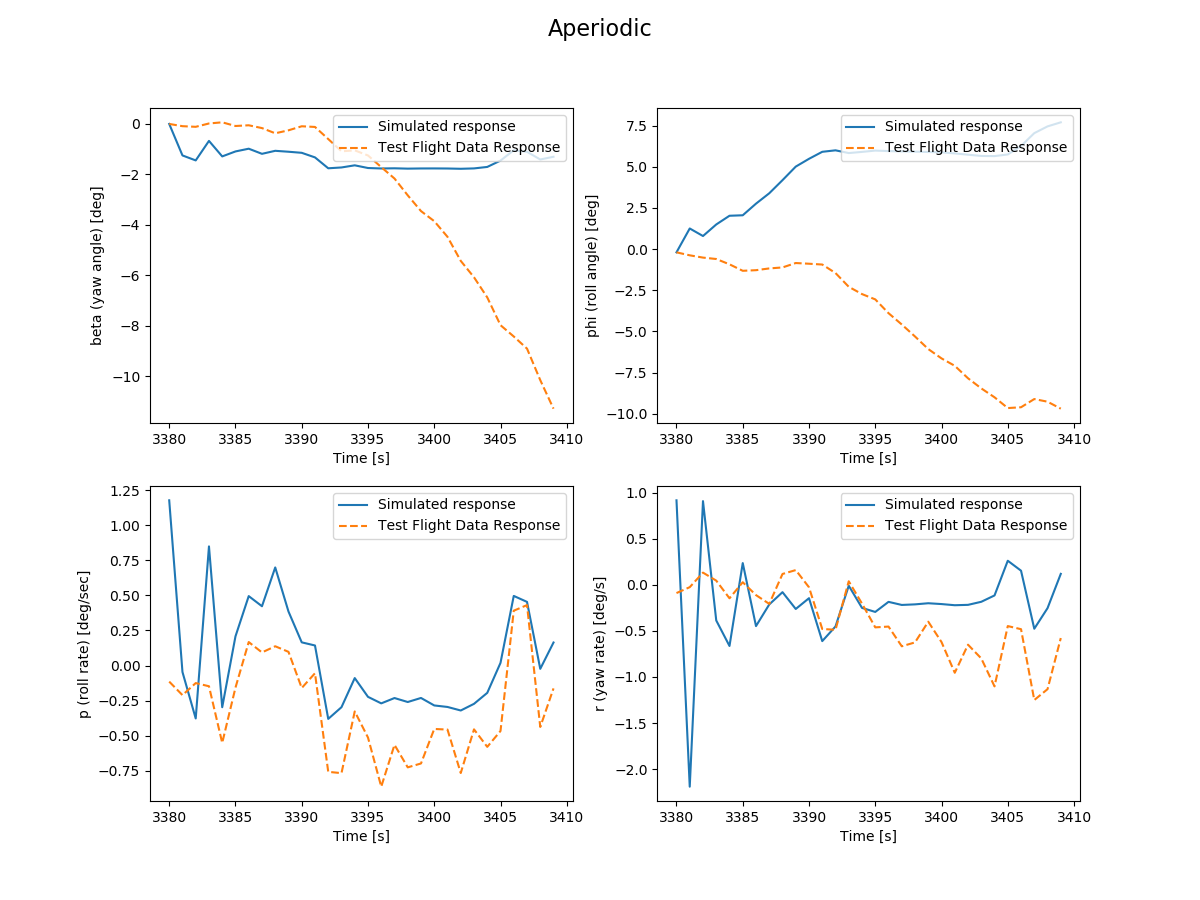
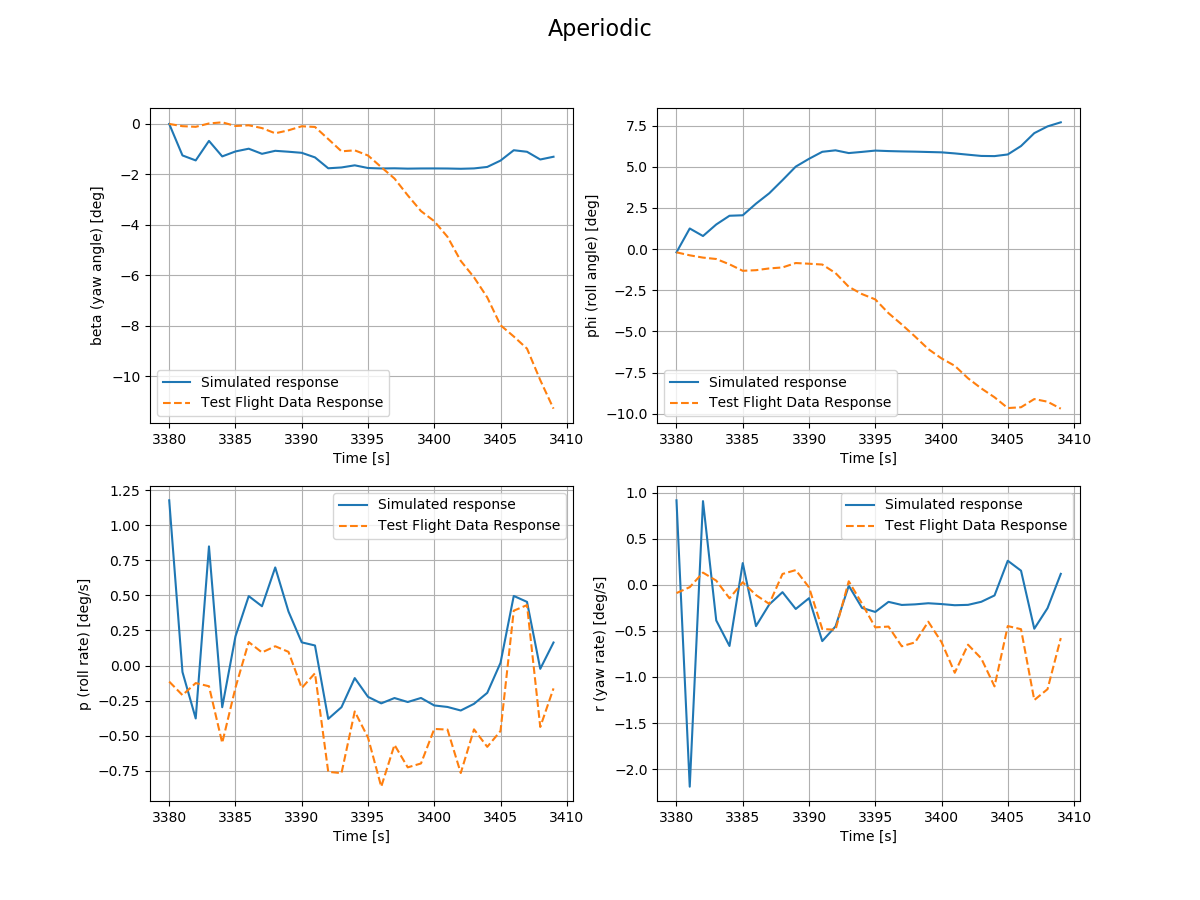
Graphs

diff --git a/src/data_processing/statespace/statespaceAsymmetrical.py b/src/data_processing/statespace/statespaceAsymmetrical.py
@@ -75,17 +75,19 @@ def maneuver_vals(time_start, length,name):
     ax1 = charPlot.add_subplot(211)
     ax1.plot(t, da, label='aileron deflection')
     ax1.plot(t, dr, label = 'rudder deflection', color='tab:orange',linestyle='--')
-    ax1.legend(loc='upper right',fontsize=14)
+    ax1.legend(fontsize=14)
     ax1.set_ylabel("da, dr [deg]", fontsize=20)
+    ax1.grid()
 
     ax2 = charPlot.add_subplot(212)
     ax2.plot(t, beta, label='beta')
     ax2.plot(t, phi, label='phi', color='tab:orange',linestyle='--')
     ax2.plot(t, p, label='p', color='tab:red',linestyle=':')
     ax2.plot(t, r, label='r', color='tab:green',linestyle='-.')
-    ax2.legend(loc='upper right',fontsize=14)
+    ax2.legend(fontsize=14)
     ax2.set_xlabel("Time [s]", fontsize=20)
     ax2.set_ylabel("beta, phi [deg], p, r [deg/s]", fontsize=20)
+    ax2.grid()
 
     charPlot.savefig('CharacterPlot_'+name)
 
@@ -208,9 +210,10 @@ fig.suptitle('Dutch Roll',fontsize=16)
 ax1 = fig.add_subplot(221)
 ax1.plot(t, y[0, :], label='Simulated response')
 ax1.plot(t, dutch[8], label='Test Flight Data Response', color='tab:orange',linestyle='--')
-ax1.legend(loc='upper right')
+ax1.legend()
 ax1.set_xlabel("Time [s]")
 ax1.set_ylabel("beta (yaw angle) [deg]")
+ax1.grid()
 print("Dutch Roll Error in Beta:")
 dutch_error_beta = L2error(dutch[8], y[0, :])
 print(dutch_error_beta)
@@ -218,9 +221,10 @@ print(dutch_error_beta)
 ax2 = fig.add_subplot(222)
 ax2.plot(t, y[1, :], label='Simulated response')
 ax2.plot(t, dutch[1], label='Test Flight Data Response', color='tab:orange',linestyle='--')
-ax2.legend(loc='upper right')
+ax2.legend()
 ax2.set_xlabel("Time [s]")
 ax2.set_ylabel("phi (roll angle) [deg]")
+ax2.grid()
 print("Dutch Roll Error in Phi:")
 dutch_error_phi = L2error(dutch[1], y[1, :])
 print(dutch_error_phi)
@@ -228,9 +232,10 @@ print(dutch_error_phi)
 ax3 = fig.add_subplot(223)
 ax3.plot(t, y[2, :], label='Simulated response')
 ax3.plot(t, dutch[2], label='Test Flight Data Response', color='tab:orange',linestyle='--')
-ax3.legend(loc='upper right')
+ax3.legend()
 ax3.set_xlabel("Time [s]")
-ax3.set_ylabel("p (roll rate) [deg/sec]")
+ax3.set_ylabel("p (roll rate) [deg/s]")
+ax3.grid()
 print("Dutch Roll Error in p:")
 dutch_error_p = L2error(dutch[2], y[2, :])
 print(dutch_error_p)
@@ -238,9 +243,10 @@ print(dutch_error_p)
 ax4 = fig.add_subplot(224)
 ax4.plot(t, y[3, :], label='Simulated response')
 ax4.plot(t, dutch[3], label='Test Flight Data Response', color='tab:orange',linestyle='--')
-ax4.legend(loc='upper right')
+ax4.legend()
 ax4.set_xlabel("Time [s]")
 ax4.set_ylabel("r (yaw rate) [deg/s]")
+ax4.grid()
 print("Dutch Roll Error in r:")
 dutch_error_r = L2error(dutch[3], y[3, :])
 print(dutch_error_r)
@@ -326,9 +332,10 @@ fig2.suptitle('Spiral',fontsize=16)
 ax1 = fig2.add_subplot(221)
 ax1.plot(t, y[0, :], label='Simulated response')
 ax1.plot(t, spiral[8], label='Test Flight Data Response', color='tab:orange',linestyle='--')
-ax1.legend(loc='upper right')
+ax1.legend()
 ax1.set_xlabel("Time [s]")
 ax1.set_ylabel("beta (yaw angle) [deg]")
+ax1.grid()
 print("Spiral Roll Error in Beta:")
 spiral_error_beta = L2error(spiral[8], y[0, :])
 print(spiral_error_beta)
@@ -336,9 +343,10 @@ print(spiral_error_beta)
 ax2 = fig2.add_subplot(222)
 ax2.plot(t, y[1, :], label='Simulated response')
 ax2.plot(t, spiral[1], label='Test Flight Data Response', color='tab:orange',linestyle='--')
-ax2.legend(loc='upper right')
+ax2.legend()
 ax2.set_xlabel("Time [s]")
 ax2.set_ylabel("phi (roll angle) [deg]")
+ax2.grid()
 print("Spiral Roll Error in Phi:")
 spiral_error_phi = L2error(spiral[1], y[1, :])
 print(spiral_error_phi)
@@ -346,9 +354,10 @@ print(spiral_error_phi)
 ax3 = fig2.add_subplot(223)
 ax3.plot(t, y[2, :], label='Simulated response')
 ax3.plot(t, spiral[2], label='Test Flight Data Response', color='tab:orange',linestyle='--')
-ax3.legend(loc='upper right')
+ax3.legend()
 ax3.set_xlabel("Time [s]")
-ax3.set_ylabel("p (roll rate) [deg/sec]")
+ax3.set_ylabel("p (roll rate) [deg/s]")
+ax3.grid()
 print("Spiral Roll Error in p:")
 spiral_error_p = L2error(spiral[2], y[2, :])
 print(spiral_error_p)
@@ -356,9 +365,10 @@ print(spiral_error_p)
 ax4 = fig2.add_subplot(224)
 ax4.plot(t, y[3, :], label='Simulated response')
 ax4.plot(t, spiral[3], label='Test Flight Data Response', color='tab:orange',linestyle='--')
-ax4.legend(loc='upper right')
+ax4.legend()
 ax4.set_xlabel("Time [s]")
 ax4.set_ylabel("r (yaw rate) [deg/s]")
+ax4.grid()
 print("Spiral Roll Error in r:")
 spiral_error_r = L2error(spiral[3], y[3, :])
 print(spiral_error_r)
@@ -444,9 +454,10 @@ fig3.suptitle('Aperiodic',fontsize=16)
 ax1 = fig3.add_subplot(221)
 ax1.plot(t, y[0, :], label='Simulated response')
 ax1.plot(t, aperiodic[8], label='Test Flight Data Response', color='tab:orange',linestyle='--')
-ax1.legend(loc='upper right')
+ax1.legend()
 ax1.set_xlabel("Time [s]")
 ax1.set_ylabel("beta (yaw angle) [deg]")
+ax1.grid()
 print("Aperiodic Roll Error in Beta:")
 aperiodic_error_beta = L2error(aperiodic[8], y[0, :])
 print(aperiodic_error_beta)
@@ -454,9 +465,10 @@ print(aperiodic_error_beta)
 ax2 = fig3.add_subplot(222)
 ax2.plot(t, y[1, :], label='Simulated response')
 ax2.plot(t, aperiodic[1], label='Test Flight Data Response', color='tab:orange',linestyle='--')
-ax2.legend(loc='upper right')
+ax2.legend()
 ax2.set_xlabel("Time [s]")
 ax2.set_ylabel("phi (roll angle) [deg]")
+ax2.grid()
 print("Aperiodic Roll Error in Phi:")
 aperiodic_error_phi = L2error(aperiodic[1], y[1, :])
 print(aperiodic_error_phi)
@@ -464,9 +476,10 @@ print(aperiodic_error_phi)
 ax3 = fig3.add_subplot(223)
 ax3.plot(t, y[2, :], label='Simulated response')
 ax3.plot(t, aperiodic[2], label='Test Flight Data Response', color='tab:orange',linestyle='--')
-ax3.legend(loc='upper right')
+ax3.legend()
 ax3.set_xlabel("Time [s]")
-ax3.set_ylabel("p (roll rate) [deg/sec]")
+ax3.set_ylabel("p (roll rate) [deg/s]")
+ax3.grid()
 print("Aperiodic Roll Error in p:")
 aperiodic_error_p = L2error(aperiodic[2], y[2, :])
 print(aperiodic_error_p)
@@ -474,9 +487,10 @@ print(aperiodic_error_p)
 ax4 = fig3.add_subplot(224)
 ax4.plot(t, y[3, :], label='Simulated response')
 ax4.plot(t, aperiodic[3], label='Test Flight Data Response', color='tab:orange',linestyle='--')
-ax4.legend(loc='upper right')
+ax4.legend()
 ax4.set_xlabel("Time [s]")
 ax4.set_ylabel("r (yaw rate) [deg/s]")
+ax4.grid()
 print("Aperiodic Roll Error in r:")
 aperiodic_error_r = L2error(aperiodic[3], y[3, :])
 print(aperiodic_error_r)

diff --git a/src/data_processing/statespace/statespace.py b/src/data_processing/statespace/statespace.py
@@ -77,17 +77,19 @@ def maneuver_vals(time_start, time_length, name):
 
     ax1 = charPlot.add_subplot(211)
     ax1.plot(t, de, label='elevator deflection')
-    ax1.legend(loc='upper right', fontsize=14)
+    ax1.legend(fontsize=14)
     ax1.set_ylabel("de [deg]", fontsize=20)
+    ax1.grid()
 
     ax2 = charPlot.add_subplot(212)
     ax2.plot(t, u)
     ax2.plot(t, w, label='w', color='tab:orange',linestyle='--')
     ax2.plot(t, pitch, label='pitch', color='tab:red',linestyle=':')
     ax2.plot(t, q, label='q', color='tab:green',linestyle='-.')
-    ax2.legend(loc='upper right', fontsize=14)
+    ax2.legend(fontsize=14)
     ax2.set_xlabel("Time [s]", fontsize=20)
     ax2.set_ylabel("u, w [m/s], pitch [deg], q [deg/s]", fontsize=20)
+    ax2.grid()
 
     charPlot.savefig('CharacterPlot_'+name)
 
@@ -207,7 +209,7 @@ fig.suptitle('Phugoid',fontsize=16)
 ax1 = fig.add_subplot(221)
 ax1.plot(t, y[0, :], label='Simulated Response')
 ax1.plot(t, phugoid[6], label='Test Flight Data Response', color='tab:orange',linestyle='--')
-ax1.legend(loc='upper right')
+ax1.legend()
 ax1.set_xlabel("Time [s]")
 ax1.set_ylabel("u (x-dir. disturbance in velocity) [m/s]")
 ax1.grid()
@@ -219,7 +221,7 @@ ax2 = fig.add_subplot(222)
 ax2.plot(t, y[1, :], label='Simulated Response')
 #alpha
 ax2.plot(t, phugoid[8], label='Test Flight Data Response', color='tab:orange',linestyle='--')
-ax2.legend(loc='upper right')
+ax2.legend()
 ax2.set_xlabel("Time [s]")
 ax2.set_ylabel("w (z-dir. disturbance in velocity) [m/s]")
 ax2.grid()
@@ -231,7 +233,7 @@ ax3 = fig.add_subplot(223)
 ax3.plot(t, y[2, :], label='Simulated Response')
 #theta
 ax3.plot(t, phugoid[3], label='Test Flight Data Response', color='tab:orange',linestyle='--')
-ax3.legend(loc='upper right')
+ax3.legend()
 ax3.set_xlabel("Time [s]")
 ax3.set_ylabel("Theta (Pitch Angle) [deg]")
 ax3.grid()
@@ -243,7 +245,7 @@ ax4 = fig.add_subplot(224)
 ax4.plot(t, y[3, :], label='Simulated Response')
 #q
 ax4.plot(t, phugoid[4], label='Test Flight Data Response', color='tab:orange',linestyle='--')
-ax4.legend(loc='upper right')
+ax4.legend()
 ax4.set_xlabel("Time [s]")
 ax4.set_ylabel("q (Pitch Rate) [deg/s]")
 ax4.grid()
@@ -317,7 +319,7 @@ fig2.suptitle('Short Period',fontsize=16)
 ax1 = fig2.add_subplot(221)
 ax1.plot(t, y[0, :], label='Simulated Response')
 ax1.plot(t, short[6], label='Test Flight Data Response', color='tab:orange',linestyle='--')
-ax1.legend(loc='upper right')
+ax1.legend()
 ax1.set_xlabel("Time [s]")
 ax1.set_ylabel("u (x-dir. disturbance in velocity) [m/s]")
 ax1.grid()
@@ -329,7 +331,7 @@ ax2 = fig2.add_subplot(222)
 ax2.plot(t, y[1, :], label='Simulated Response')
 #alpha
 ax2.plot(t, short[8], label='Test Flight Data Response', color='tab:orange',linestyle='--')
-ax2.legend(loc='upper right')
+ax2.legend()
 ax2.set_xlabel("Time [s]")
 ax2.set_ylabel("w (z-dir. disturbance in velocity) [m/s]")
 ax2.grid()
@@ -341,7 +343,7 @@ ax3 = fig2.add_subplot(223)
 ax3.plot(t, y[2, :], label='Simulated Response')
 #theta
 ax3.plot(t, short[3], label='Test Flight Data Response', color='tab:orange',linestyle='--')
-ax3.legend(loc='upper right')
+ax3.legend()
 ax3.set_xlabel("Time [s]")
 ax3.set_ylabel("Theta (Pitch Angle) [deg]")
 ax3.grid()
@@ -353,7 +355,7 @@ ax4 = fig2.add_subplot(224)
 ax4.plot(t, y[3, :], label='Simulated Response')
 #q
 ax4.plot(t, short[4], label='Test Flight Data Response', color='tab:orange',linestyle='--')
-ax4.legend(loc='upper right')
+ax4.legend()
 ax4.set_xlabel("Time [s]")
 ax4.set_ylabel("q (Pitch Rate) [deg/s]")
 ax4.grid()
